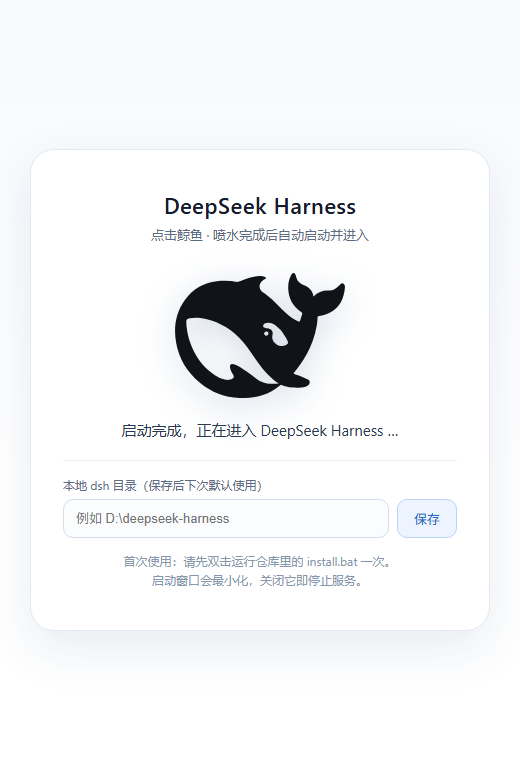
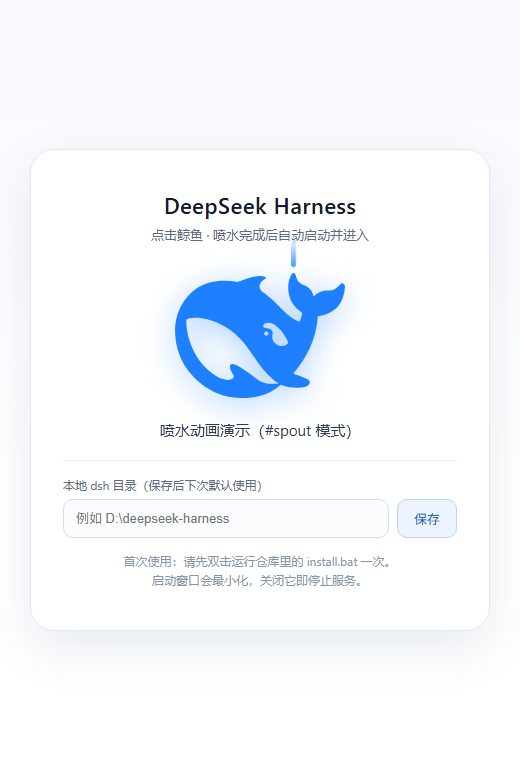
fix: whale turns blue while spouting; add project background to README

Changed region(s): [[0.2462, 0.3077, 0.7385, 0.5846]]

diff --git a/launcher.html b/launcher.html
@@ -31,7 +31,7 @@ h1 { font-size: 22px; margin: 0 0 6px; font-weight: 600; letter-spacing: .5px; c
   filter: drop-shadow(0 8px 18px rgba(30, 64, 120, .18));
   transition: color .3s ease, filter .3s ease;
 }
-.whale-btn.spouting .fish {
+.spouting .fish {
   color: #1e80ff;
   filter: drop-shadow(0 6px 16px rgba(30, 128, 255, .35));
   animation: bob 1.5s ease-in-out infinite;
@@ -214,13 +214,10 @@ h1 { font-size: 22px; margin: 0 0 6px; font-weight: 600; letter-spacing: .5px; c
     probe().then(function (up) { if (up) jumpIn() })
   }
 
-  // #spout 演示模式：打开 launcher.html#spout 只播放喷水动画（不启动服务）
+  // #spout 演示模式：打开 launcher.html#spout 只播放喷水动画（不启动服务、不跳转）
   if (location.hash === '#spout') {
-    probe().then(function (up) {
-      if (up) return
-      wrap.classList.add('spouting')
-      setStatus('喷水动画演示（#spout 模式）')
-    })
+    wrap.classList.add('spouting')
+    setStatus('喷水动画演示（#spout 模式）')
   }
 
   // 用官方鲸鱼图形生成标签页/书签图标

diff --git a/README.md b/README.md
@@ -2,6 +2,10 @@
 
 一个带官方 DeepSeek 鲸鱼动画的桌面启动器：**点击鲸鱼 → 精致喷水动画 → 喷完自动启动 DeepSeek Harness → 自动进入**。
 
+## 💡 背景
+
+每次使用 DeepSeek Harness 都要打开终端、输入启动命令（例如 `node --import tsx/esm apps/cli/src/bin.ts web`）拉起 web 服务，再手动打开浏览器——太麻烦了。这个项目把整个流程变成一个动作：**点一下鲸鱼**。它会在喷水动画结束后自动拉起服务，并带你直接进入 DeepSeek Harness 界面。安装一次之后，每天只需要点一下书签、点一下鲸鱼。
+
 ![platform](https://img.shields.io/badge/platform-Windows-blue)
 ![license](https://img.shields.io/badge/license-MIT-green)
 ![no-admin](https://img.shields.io/badge/admin-not%20required-brightgreen)
